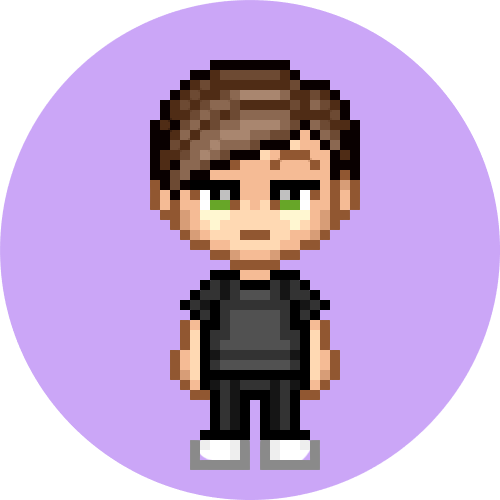
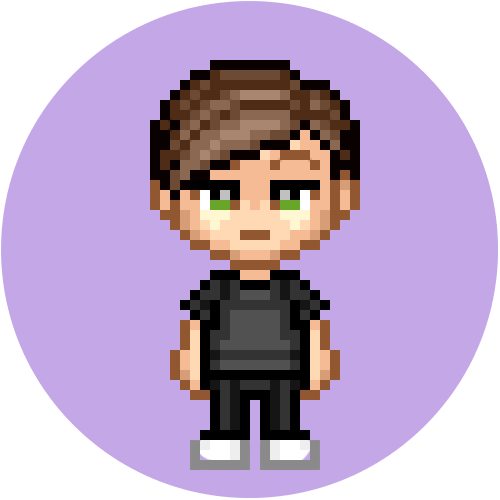
feat: migrate to rose pine

diff --git a/islands/AboutPage.tsx b/islands/AboutPage.tsx
@@ -80,7 +80,7 @@ export default function AboutPage() {
                                 ? 'transition-all duration-1000 opacity-100 translate-y-0'
                                 : 'hidden opacity-0 translate-y-[5%] md:block absolute top-0 left-0 transition-all duration-1000 delay-500'}
                         >
-                            <div class='rounded-full border-[#1e66f5] dark:border-[#89b4fa] md:border-4 border-2 md:p-4 p-1 flex items-center justify-center md:w-24 md:h-24 w-12 h-12 hover:scale-105 transition-transform duration-300'>
+                            <div class='rounded-full border-rp-love md:border-4 border-2 md:p-4 p-1 flex items-center justify-center md:w-24 md:h-24 w-12 h-12 hover:scale-105 transition-transform duration-300'>
                                 <IconBrandReact
                                     class='min-w-[80%] min-h-[80%] md:min-w-full md:min-h-full'
                                     stroke={1}
@@ -92,7 +92,7 @@ export default function AboutPage() {
                                 ? 'transition-all duration-1000 delay-200 opacity-100 translate-y-0'
                                 : 'hidden opacity-0 translate-y-[5%] md:block absolute top-0 left-0 transition-all duration-1000 delay-500'}
                         >
-                            <div class='rounded-full border-[#fe640b] dark:border-[#fab387] md:border-4 border-2 md:p-4 p-1 flex items-center justify-center md:w-24 md:h-24 w-12 h-12 hover:scale-105 transition-transform duration-300'>
+                            <div class='rounded-full border-rp-gold md:border-4 border-2 md:p-4 p-1 flex items-center justify-center md:w-24 md:h-24 w-12 h-12 hover:scale-105 transition-transform duration-300'>
                                 <IconBrandCSharp
                                     class='min-w-[80%] min-h-[80%] md:min-w-full md:min-h-full'
                                     stroke={1}
@@ -104,7 +104,7 @@ export default function AboutPage() {
                                 ? 'transition-all duration-1000 delay-[400ms] opacity-100 translate-y-0'
                                 : 'hidden opacity-0 translate-y-[5%] md:block absolute top-0 left-0 transition-all duration-1000 delay-500'}
                         >
-                            <div class='rounded-full border-[#d20f39] dark:border-[#f38ba8] md:border-4 border-2 md:p-4 p-1 flex items-center justify-center md:w-24 md:h-24 w-12 h-12 hover:scale-105 transition-transform duration-300'>
+                            <div class='rounded-full border-rp-iris md:border-4 border-2 md:p-4 p-1 flex items-center justify-center md:w-24 md:h-24 w-12 h-12 hover:scale-105 transition-transform duration-300'>
                                 <IconBrandTypescript
                                     class='min-w-[80%] min-h-[80%] md:min-w-full md:min-h-full'
                                     stroke={1}
@@ -116,7 +116,7 @@ export default function AboutPage() {
                                 ? 'transition-all duration-1000 delay-[600ms] opacity-100 translate-y-0'
                                 : 'hidden opacity-0 translate-y-[5%] md:block absolute top-0 left-0 transition-all duration-1000 delay-500'}
                         >
-                            <div class='rounded-full border-[#40a02b] dark:border-[#a6e3a1] md:border-4 border-2 md:p-4 p-1 flex items-center justify-center md:w-24 md:h-24 w-12 h-12 hover:scale-105 transition-transform duration-300'>
+                            <div class='rounded-full border-rp-pine md:border-4 border-2 md:p-4 p-1 flex items-center justify-center md:w-24 md:h-24 w-12 h-12 hover:scale-105 transition-transform duration-300'>
                                 <IconBrandPhp
                                     class='min-w-[80%] min-h-[80%] md:min-w-full md:min-h-full'
                                     stroke={1}
@@ -128,7 +128,7 @@ export default function AboutPage() {
                                 ? 'transition-all duration-1000 delay-[800ms] opacity-100 translate-y-0'
                                 : 'hidden opacity-0 translate-y-[5%] md:block absolute top-0 left-0 transition-all duration-1000 delay-500'}
                         >
-                            <div class='rounded-full border-[#df8e1d] dark:border-[#f9e2af] md:border-4 border-2 md:p-4 p-1 flex items-center justify-center md:w-24 md:h-24 w-12 h-12 hover:scale-105 transition-transform duration-300'>
+                            <div class='rounded-full border-rp-foam md:border-4 border-2 md:p-4 p-1 flex items-center justify-center md:w-24 md:h-24 w-12 h-12 hover:scale-105 transition-transform duration-300'>
                                 <IconBrandPython
                                     class='min-w-[80%] min-h-[80%] md:min-w-full md:min-h-full'
                                     stroke={1}

diff --git a/islands/Menu.tsx b/islands/Menu.tsx
@@ -37,7 +37,7 @@ export default function Menu(props: MenuProps) {
     return (
         <div class='flex flex-col md:flex-row'>
             <button
-                class={`rounded-full px-2 py-1 focus:outline-none hover:bg-gray-200 dark:hover:bg-[#313244] w-12 h-12 flex items-center justify-center md:hidden ${
+                class={`rounded-full px-2 py-1 focus:outline-none hover:bg-rp-overlay w-12 h-12 flex items-center justify-center md:hidden ${
                     isMenuOpen ? 'bg-gray-200' : ''
                 }`}
                 onClick={toggleMenu}
@@ -56,28 +56,28 @@ export default function Menu(props: MenuProps) {
                 } transition-all duration-300`}
             >
                 <a
-                    class='rounded-full px-2 py-1 md:border-2 md:border-[#acb0be] dark:md:border-[#585b70] focus:outline-none hover:bg-gray-200 dark:hover:bg-[#313244] w-12 h-12 flex items-center justify-center'
+                    class='rounded-full px-2 py-1 md:border-2 md:border-rp-highlightMed focus:outline-none hover:bg-rp-overlay w-12 h-12 flex items-center justify-center'
                     href={props.github}
                     target='_blank'
                 >
                     <IconBrandGithub />
                 </a>
                 <a
-                    class='rounded-full px-2 py-1 md:border-2 md:border-[#acb0be] dark:md:border-[#585b70] focus:outline-none hover:bg-gray-200 dark:hover:bg-[#313244] w-12 h-12 flex items-center justify-center'
+                    class='rounded-full px-2 py-1 md:border-2 md:border-rp-highlightMed focus:outline-none hover:bg-rp-overlay w-12 h-12 flex items-center justify-center'
                     href={props.email}
                     target='_blank'
                 >
                     <IconMail />
                 </a>
                 <a
-                    class='rounded-full px-2 py-1 md:border-2 md:border-[#acb0be] dark:md:border-[#585b70] focus:outline-none hover:bg-gray-200 dark:hover:bg-[#313244] w-12 h-12 flex items-center justify-center'
+                    class='rounded-full px-2 py-1 md:border-2 md:border-rp-highlightMed focus:outline-none hover:bg-rp-overlay w-12 h-12 flex items-center justify-center'
                     href={props.linkedin}
                     target='_blank'
                 >
                     <IconBrandLinkedin />
                 </a>
                 <a
-                    class='rounded-full px-2 py-1 md:border-2 md:border-[#acb0be] dark:md:border-[#585b70] focus:outline-none hover:bg-gray-200 dark:hover:bg-[#313244] w-12 h-12 flex items-center justify-center'
+                    class='rounded-full px-2 py-1 md:border-2 md:border-rp-highlightMed focus:outline-none hover:bg-rp-overlay w-12 h-12 flex items-center justify-center'
                     href={asset('adriankarlen-resume.pdf')}
                     target='_blank'
                 >

diff --git a/static/styles/_global.css b/static/styles/_global.css
@@ -1,11 +1,37 @@
 @layer base {
     :root {
-        --color-primary: 114 135 253;
-        --color-secondary: 230 69 83;
+        --rp-base: 32deg 57% 95%;
+        --rp-surface: 35deg 100% 98%;
+        --rp-overlay: 33deg 43% 91%;
+        --rp-muted: 257deg 9% 61%;
+        --rp-subtle: 248deg 12% 52%;
+        --rp-text: 248deg 19% 40%;
+        --rp-love: 343deg 35% 55%;
+        --rp-gold: 35deg 81% 56%;
+        --rp-rose: 3deg 53% 67%;
+        --rp-pine: 197deg 53% 34%;
+        --rp-foam: 189deg 30% 48%;
+        --rp-iris: 268deg 21% 57%;
+        --rp-highlightLow: 25deg 35% 93%;
+        --rp-highlightMed: 10deg 9% 86%;
+        --rp-highlightHigh: 315deg 4% 80%;
     }
     :root[class='dark'] {
-        --color-primary: 180 190 254;
-        --color-secondary: 235 160 172;
+        --rp-base: 249deg 22% 12%;
+        --rp-surface: 247deg 23% 15%;
+        --rp-overlay: 248deg 25% 18%;
+        --rp-muted: 249deg 12% 47%;
+        --rp-subtle: 248deg 15% 61%;
+        --rp-text: 245deg 50% 91%;
+        --rp-love: 343deg 76% 68%;
+        --rp-gold: 35deg 88% 72%;
+        --rp-rose: 2deg 55% 83%;
+        --rp-pine: 197deg 49% 38%;
+        --rp-foam: 189deg 43% 73%;
+        --rp-iris: 267deg 57% 78%;
+        --rp-highlightLow: 244deg 18% 15%;
+        --rp-highlightMed: 249deg 15% 28%;
+        --rp-highlightHigh: 248deg 13% 36%;
     }
 }
 
@@ -66,17 +92,11 @@ main {
 }
 
 ::selection {
-    background-color: #7287fd;
-    color: #fff;
+    background-color: hsl(var(--rp-highlightMed));
 }
 
 .dark {
     color-scheme: dark;
-}
-
-.dark ::selection {
-    background-color: #b4befe;
-    color: #fff;
 }
 
 button:focus {

diff --git a/twind.config.ts b/twind.config.ts
@@ -5,9 +5,26 @@ export default {
     theme: {
         extend: {
             colors: {
-                primary: 'rgb(var(--color-primary))',
-                secondary: 'rgb(var(--color-secondary))',
-                error: '#f38ba8',
+                primary: 'hsl(var(--rp-love))',
+                secondary: 'hsl(var(--rp-iris))',
+                error: 'hsl(var(--rp-love))',
+                rp: {
+                    base: 'hsl(var(--rp-base))',
+                    surface: 'hsl(var(--rp-surface))',
+                    overlay: 'hsl(var(--rp-overlay))',
+                    muted: 'hsl(var(--rp-muted))',
+                    subtle: 'hsl(var(--rp-subtle))',
+                    text: 'hsl(var(--rp-text))',
+                    love: 'hsl(var(--rp-love))',
+                    gold: 'hsl(var(--rp-gold))',
+                    rose: 'hsl(var(--rp-rose))',
+                    pine: 'hsl(var(--rp-pine))',
+                    foam: 'hsl(var(--rp-foam))',
+                    iris: 'hsl(var(--rp-iris))',
+                    highlightLow: 'hsl(var(--rp-highlightLow))',
+                    highlightMed: 'hsl(var(--rp-highlightMed))',
+                    highlightHigh: 'hsl(var(--rp-highlightHigh))'
+                }
             },
         },
     },

diff --git a/islands/Carousel.tsx b/islands/Carousel.tsx
@@ -25,8 +25,8 @@ const Slide = (props: SlideProps) => {
             key={key}
             class={`flex flex-col items-center justify-center ${props.class} w-full h-full text-center text-white font-semibold`}
         >
-            <div class='absolute top-4 left-1/2 transform -translate-x-1/2 px-3 py-1 bg-[#313244] rounded-full'>
-                <span class='text-md font-bold text-[#cdd6f4]'>{text}</span>
+            <div class='absolute top-4 left-1/2 transform -translate-x-1/2 px-3 py-1 bg-rp-overlay rounded-full'>
+                <span class='text-md font-bold text-rp-text'>{text}</span>
             </div>
             <a href={url} target='_blank'>
                 <img
@@ -48,8 +48,7 @@ type CarouselProps = {
 };
 
 const Carousel = (props: CarouselProps) => {
-    const NAVIGATION_COLOR =
-        `hover:text-[#6c6f85] dark:hover:text-[#a6adc8] text-[#4c4f69] dark:text-[#cdd6f4]`;
+    const NAVIGATION_COLOR = `hover:text-rp-subtle dark:text-rp-text`;
     const CHEVRON_STYLE =
         `absolute z-30 w-10 h-10 ${NAVIGATION_COLOR} cursor-pointer`;
     const SHOW_NAVIGATION = props.showNavigation === false ? false : true;

diff --git a/static/styles/_scrollbar.css b/static/styles/_scrollbar.css
@@ -1,7 +1,7 @@
 html {
     -ms-overflow-style: none;
     scrollbar-width: thin;
-    scrollbar-color: #8c8fa1 #eff1f5;
+    scrollbar-color: #403d52 #191724;
 }
 
 html::-webkit-scrollbar {
@@ -10,30 +10,14 @@ html::-webkit-scrollbar {
 }
 
 html::-webkit-scrollbar-thumb {
-    background-color: #8c8fa1;
+    background-color: #403d52;
     border-radius: 0.95rem;
 }
 
 html::-webkit-scrollbar-thumb:hover {
-    background-color: #6c6f85;
+    background-color: #524f67;
 }
 
 html::-webkit-scrollbar-track {
-    background-color: #eff1f5;
-}
-
-html.dark {
-    scrollbar-color: #45475a #1e1e2e;
-}
-
-html.dark::-webkit-scrollbar-thumb {
-    background-color: #45475a;
-}
-
-html.dark::-webkit-scrollbar-thumb:hover {
-    background-color: #585b70;
-}
-
-html.dark::-webkit-scrollbar-track {
-    background-color: #1e1e2e;
+    background-color: #191724;
 }

diff --git a/routes/index.tsx b/routes/index.tsx
@@ -10,12 +10,12 @@ export default function Home() {
             <header class='p-4 mx-auto max-w-screen-2xl h-screen flex flex-col justify-between'>
                 <Header name='Adrian Karlen' />
             </header>
-            <main class='mx-auto max-w-screen-2xl min-h-screen flex flex-col justify-between'>
+            <main class='mx-auto max-w-screen-2xl min-h-screen flex flex-col justify-between bor'>
                 <AboutPage />
                 <ProjectsPage />
                 <FloatingBox />
             </main>
-            <footer class='mx-auto h-36 w-screen bg-[#dce0e8] dark:bg-[#11111b] md:h-48'>
+            <footer class='mx-auto h-36 w-screen md:h-48'>
                 <Footer />
             </footer>
         </>

diff --git a/islands/ColorMode.tsx b/islands/ColorMode.tsx
@@ -47,7 +47,7 @@ export default function ColorMode() {
 
     return (
         <button
-            class={`rounded-full px-2 py-1 md:border-2 md:border-[#acb0be] dark:md:border-[#585b70] focus:outline-none hover:bg-gray-200 dark:hover:bg-[#313244] w-12 h-12 flex items-center justify-center transition-colors ${
+            class={`rounded-full px-2 py-1 md:border-2 md:border-rp-highlightMed focus:outline-none hover:bg-rp-overlay w-12 h-12 flex items-center justify-center transition-colors ${
                 state.value === 'dark' ? 'bg-dark' : 'bg-light'
             }`}
             onClick={handleClick}

diff --git a/islands/ResumeButton.tsx b/islands/ResumeButton.tsx
@@ -4,7 +4,7 @@ import { asset } from '$fresh/runtime.ts';
 export default function ResumeButton() {
     return (
         <a
-            class='rounded-full px-2 py-1 md:border-2 md:border-[#acb0be] dark:md:border-[#585b70] focus:outline-none hover:bg-gray-200 dark:hover:bg-[#313244] w-12 h-12 flex items-center justify-center'
+            class='rounded-full px-2 py-1 md:border-2 md:border-rp-highlightMed focus:outline-none hover:bg-rp-overlay w-12 h-12 flex items-center justify-center'
             href={asset('resume.pdf')}
         >
             <IconFileDownload />

diff --git a/islands/FloatingBox.tsx b/islands/FloatingBox.tsx
@@ -32,7 +32,7 @@ const FloatingBox = () => {
                     : 'hidden opacity-0 translate-y-[20%] md:block bottom-0 left-0 transition-all duration-500 delay-150 pointer-events-none'
             }`}
         >
-            <div className='bg-[#dce0e8] dark:bg-[#11111b] shadow-lg rounded-full p-4 flex justify-center'>
+            <div className='bg-rp-surface shadow-lg rounded-full p-4 flex justify-center'>
                 <Menu
                     email='mailto:akarlen@pm.me'
                     github='https://github.com/adriankarlen'

diff --git a/components/Footer.tsx b/components/Footer.tsx
@@ -3,7 +3,7 @@ import { asset } from 'https://deno.land/x/fresh@1.1.6/runtime.ts';
 
 export default function Footer() {
     return (
-        <div class='h-full md:px-52 px-4 col-span-2 lg:col-span-1 flex md:gap-1 gap-4 items-center mt-10 justify-between'>
+        <div class='h-full md:px-52 px-4 col-span-2 lg:col-span-1 flex md:gap-1 gap-4 items-center mt-10 justify-between border-t-2 border-rp-overlay'>
             <a
                 class='text-2xl md:inline hidden font-bold text-gray-700 dark:text-gray-300'
                 href='#top'

diff --git a/routes/_app.tsx b/routes/_app.tsx
@@ -11,7 +11,7 @@ export default function App({ Component }: AppProps) {
                 <link rel='stylesheet' href='styles/_scrollbar.css' />
                 <title>adriankarlen</title>
             </Head>
-            <div class='bg-[#eff1f5] dark:bg-[#1e1e2e] text-[#4c4f69] dark:text-[#cdd6f4]'>
+            <div class='bg-rp-base text-rp-text'>
                 <Component />
             </div>
         </html>
